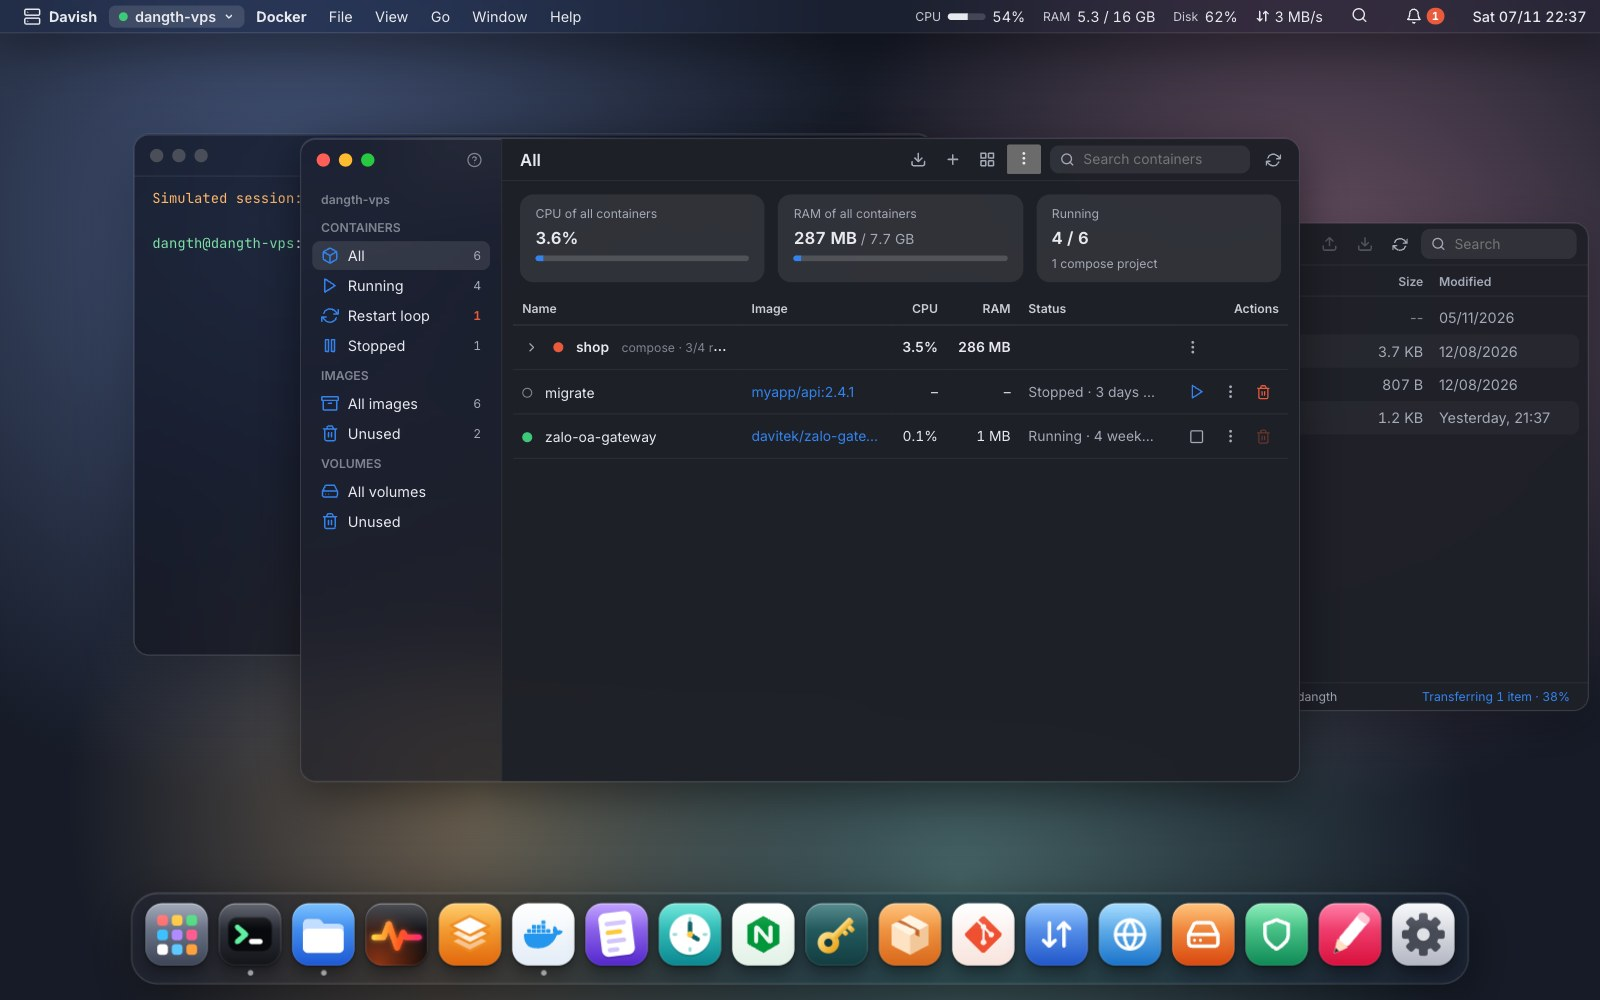
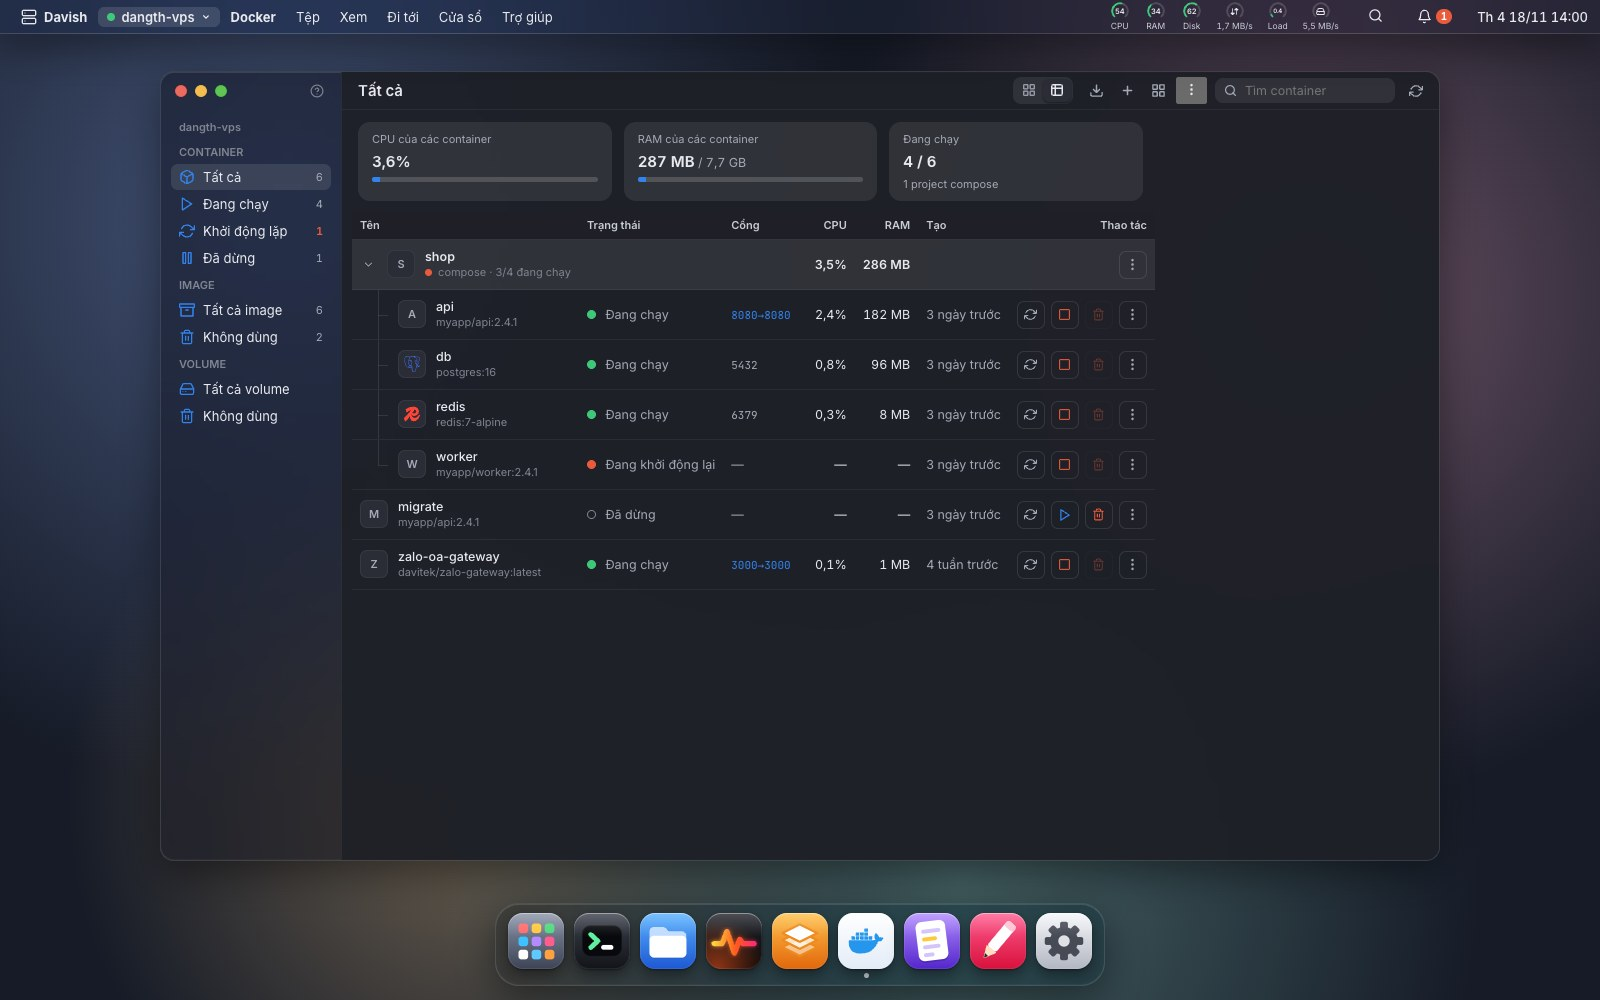
docs: screenshots of the 1.14.5 Docker table
English gets its own container table shot (it only had the Images view),
and the Vietnamese light and dark ones replace the old table with the ID
column. FEATURES, the docs and the landing page's Docker tab use them.

diff --git a/site/src/i18n/vi.ts b/site/src/i18n/vi.ts
@@ -70,7 +70,7 @@ export const vi: Dict = {
         text: 'Trạng thái, diff và đồ thị commit của các repo trên server, kèm fetch và pull.',
       },
       {
-        key: 'docker-images',
+        key: 'docker',
         title: 'Docker rõ ràng',
         text: 'Container theo compose project, image và các layer, volume, log và shell chỉ một cú bấm.',
       },

diff --git a/site/src/i18n/zh.ts b/site/src/i18n/zh.ts
@@ -70,7 +70,7 @@ export const zh: Dict = {
         text: '查看服务器上仓库的状态、差异和提交图，并可 fetch 和 pull。',
       },
       {
-        key: 'docker-images',
+        key: 'docker',
         title: '清晰的 Docker',
         text: '按 compose 项目查看容器，镜像及其分层、数据卷，一键查看日志或打开 shell。',
       },

diff --git a/site/src/i18n/en.ts b/site/src/i18n/en.ts
@@ -69,7 +69,7 @@ export const en = {
         text: 'Status, diffs and the commit graph of the repos on your server, with fetch and pull.',
       },
       {
-        key: 'docker-images',
+        key: 'docker',
         title: 'Docker, clearly',
         text: 'Containers by compose project, images and their layers, volumes, logs and a shell in one click.',
       },

diff --git a/FEATURES.vi.md b/FEATURES.vi.md
@@ -91,7 +91,7 @@ Bố cục như Docker Desktop. Container dạng thẻ hoặc bảng, chuyển b
 **Compose**: menu ⋮ của mỗi project có up, pull, restart, down và mở file compose trong Editor; **Stack compose mới…** ghi `compose.yaml` từ mẫu (một container, web + database, app + Redis) vào một thư mục, không bao giờ ghi đè file đã có. Tạo network, volume, và sao chép container bất kỳ thành lệnh `docker run` dựng lại nó.
 
 <table><tr>
-  <td><img src="assets/screenshots/docker.jpg" alt="Docker với một container khởi động lại liên tục"></td>
+  <td><img src="assets/screenshots/docker.jpg" alt="Docker với một project compose và một container khởi động lại liên tục"></td>
   <td><img src="assets/screenshots/docker-images.jpg" alt="Một image và các layer của nó"></td>
 </tr></table>
 

diff --git a/site/src/content/docs/vi/docs/services-and-apps/docker.md b/site/src/content/docs/vi/docs/services-and-apps/docker.md
@@ -12,7 +12,7 @@ Bố cục như Docker Desktop. Container dạng thẻ hoặc bảng, chuyển b
 **Compose**: menu ⋮ của mỗi project có up, pull, restart, down và mở file compose trong Editor; **Stack compose mới…** ghi `compose.yaml` từ mẫu (một container, web + database, app + Redis) vào một thư mục, không bao giờ ghi đè file đã có. Tạo network, volume, và sao chép container bất kỳ thành lệnh `docker run` dựng lại nó.
 
   
-![Docker với một container khởi động lại liên tục](../../../../../../../assets/screenshots/docker.jpg)
+![Docker với một project compose và một container khởi động lại liên tục](../../../../../../../assets/screenshots/docker.jpg)
 
   
 ![Một image và các layer của nó](../../../../../../../assets/screenshots/docker-images.jpg)

diff --git a/FEATURES.md b/FEATURES.md
@@ -91,7 +91,7 @@ Laid out like Docker Desktop. Containers as cards or in a table, switched from t
 **Compose**: each project's ⋮ menu has up, pull, restart and down, plus its compose file in the Editor; **New compose stack…** writes a `compose.yaml` from a template (one container, web + database, app + Redis) into a folder, never over an existing one. Create networks and volumes, and copy any container as the `docker run` command that would make it again.
 
 <table><tr>
-  <td><img src="assets/screenshots/docker.jpg" alt="Docker with a container in a restart loop"></td>
+  <td><img src="assets/screenshots/en/docker.jpg" alt="Docker with a compose project and a container in a restart loop"></td>
   <td><img src="assets/screenshots/en/docker-images.jpg" alt="An image and its layers"></td>
 </tr></table>
 

diff --git a/site/src/content/docs/docs/services-and-apps/docker.md b/site/src/content/docs/docs/services-and-apps/docker.md
@@ -12,7 +12,7 @@ Laid out like Docker Desktop. Containers as cards or in a table, switched from t
 **Compose**: each project's ⋮ menu has up, pull, restart and down, plus its compose file in the Editor; **New compose stack…** writes a `compose.yaml` from a template (one container, web + database, app + Redis) into a folder, never over an existing one. Create networks and volumes, and copy any container as the `docker run` command that would make it again.
 
   
-![Docker with a container in a restart loop](../../../../../../assets/screenshots/docker.jpg)
+![Docker with a compose project and a container in a restart loop](../../../../../../assets/screenshots/en/docker.jpg)
 
   
 ![An image and its layers](../../../../../../assets/screenshots/en/docker-images.jpg)
